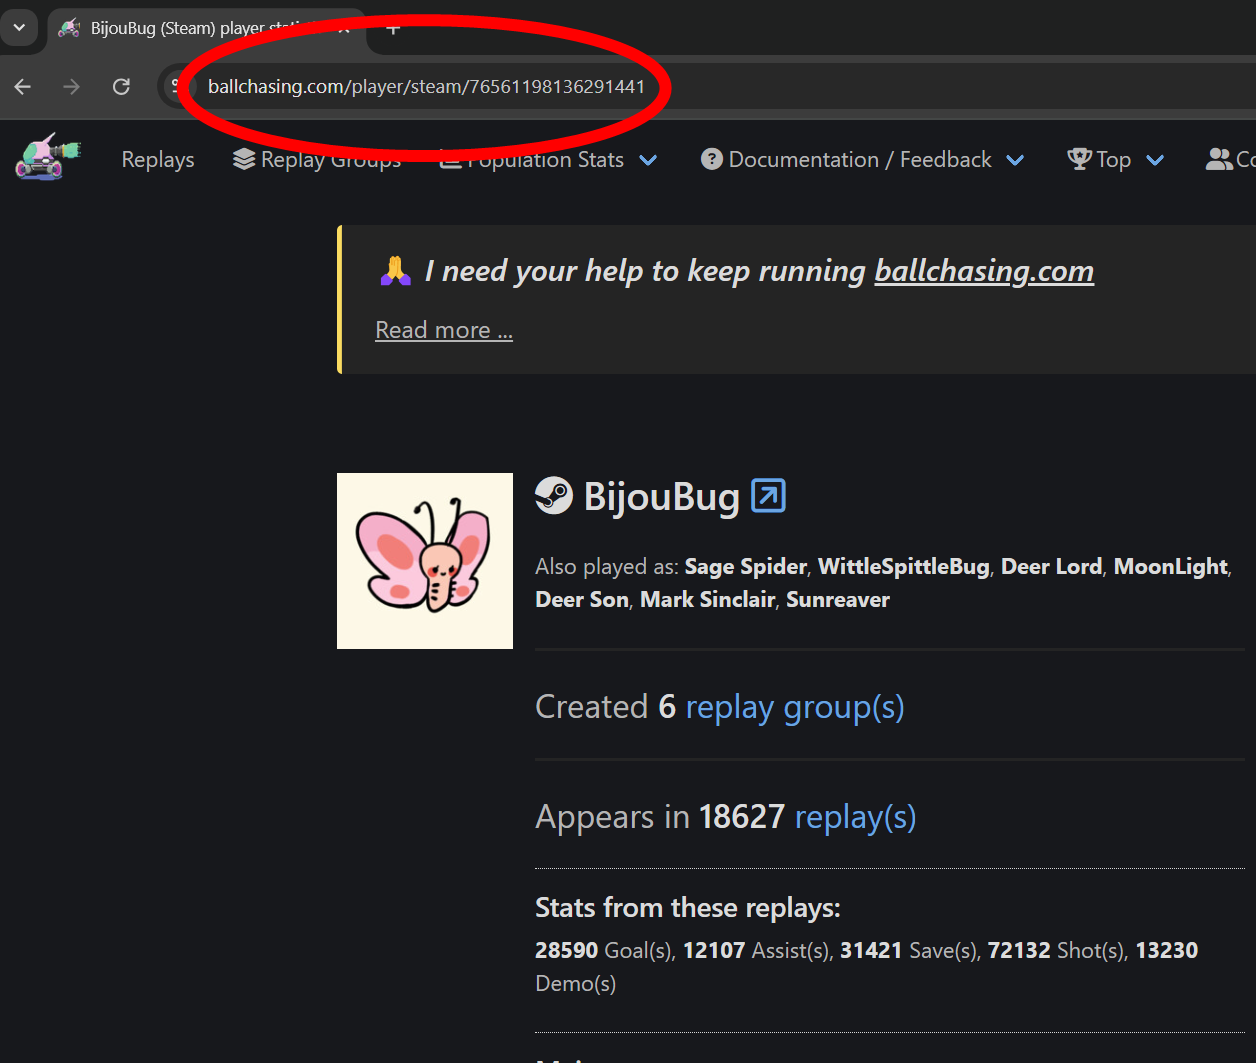
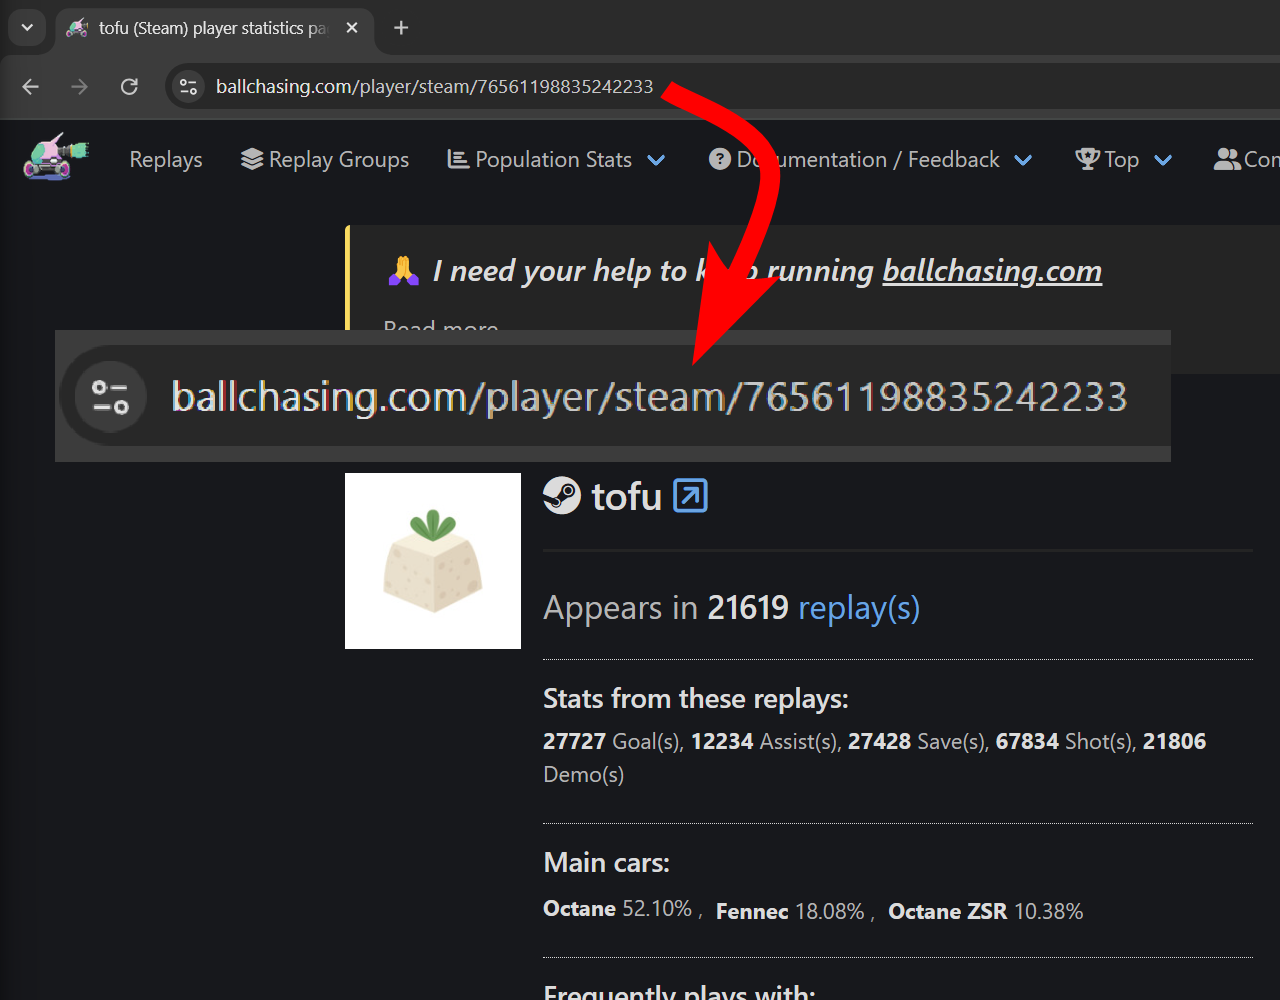
Finish aligning content for mobile screen size and add helpful image

Changed region(s): [[0.0, 0.0, 1.0, 0.806], [0.4037, 0.837, 0.9626, 0.93], [0.4037, 0.992, 0.6521, 1.0]]

diff --git a/stat-chasing/src/components/App.jsx b/stat-chasing/src/components/App.jsx
@@ -228,6 +228,7 @@ function App() {
     <div className={styles.pageContent}>
       <header className={styles.mainHeader}>
         <h1>Statchasing</h1>
+        {/* remove admin login button for production */}
         <AdminLoginBtn />
       </header>
       <section className={styles.welcomeSection}>
@@ -248,7 +249,8 @@ function App() {
         <hr />
       </section>
       <section className={styles.playerSearchSection}>
-        <button
+        {/* remove copy URL button for production */}
+        {/* <button
           onClick={() =>
             navigator.clipboard.writeText(
               "https://ballchasing.com/player/steam/76561198136291441"
@@ -256,19 +258,26 @@ function App() {
           }
         >
           Copy BijouBug's URL
-        </button>
+        </button> */}
         <form className={styles.playerSearchForm} onSubmit={handleSubmit}>
-          <label>
-            Start by copy and pasting a player's ballchasing profile URL.
-            (https://ballchasing.com/player/steam/76561198136291441)
-            <input
-              className={styles.playerProfileInput}
-              type="text"
-              value={unprocessedPlayerId}
-              onChange={(e) => setUnprocessedPlayerId(e.target.value)}
-              placeholder="Enter ballchasing player URL"
-            />
+          <label htmlFor="playerURL">
+            Start by pasting a player's entire ballchasing profile URL, the one
+            shown in the image below:
+            {/* replace link with example image */}
+            {/* (https://ballchasing.com/player/steam/76561198136291441) */}
           </label>
+          <img
+            src="../../assets/player-profile-url.png"
+            alt="Paste the URL copied from the address bar on a player's profile on ballchasing.com. The URL should follow this pattern: https://ballchasing.com/player/platform/id, where 'platform' can be 'steam', 'epic', 'psn', 'xbox', or 'switch', and 'id' will be a numeric or alphanumeric string, or otherwise may be the player's in-game name, depending on the platform."
+          />
+          <input
+            className={styles.playerProfileInput}
+            type="text"
+            id="playerURL"
+            value={unprocessedPlayerId}
+            onChange={(e) => setUnprocessedPlayerId(e.target.value)}
+            placeholder="Enter player's ballchasing URL"
+          />
           {isAdmin && (
             <div>
               <label>Select date to fetch older replays (admins only): </label>
@@ -292,16 +301,21 @@ function App() {
       </section>
 
       <section>
-        {/* would like to display a message when a player wasn't found/when player has no replays available */}
+        {/* would like to display a message when a player wasn't found vs when player just has no replays available */}
         {playerName && (
           <div className={styles.playerStatsContainer}>
-            <div className={styles.playlistBtnsContainer}>
-              <button onClick={() => setPlaylist(null)}>All</button>
-              <button onClick={() => setPlaylist("ranked-duels")}>1v1</button>
-              <button onClick={() => setPlaylist("ranked-doubles")}>2v2</button>
-              <button onClick={() => setPlaylist("ranked-standard")}>
-                3v3
-              </button>
+            <div className={styles.playlistFilterSection}>
+              <h4>Filter by playlist:</h4>
+              <div className={styles.playlistBtnsContainer}>
+                <button onClick={() => setPlaylist(null)}>All</button>
+                <button onClick={() => setPlaylist("ranked-duels")}>1v1</button>
+                <button onClick={() => setPlaylist("ranked-doubles")}>
+                  2v2
+                </button>
+                <button onClick={() => setPlaylist("ranked-standard")}>
+                  3v3
+                </button>
+              </div>
             </div>
             <Stats />
           </div>

diff --git a/stat-chasing/src/styles/App.module.css b/stat-chasing/src/styles/App.module.css
@@ -1,9 +1,10 @@
 .pageContent {
   display: flex;
-  flex-flow: row wrap;
+  flex-flow: column;
   justify-content: center;
   align-items: center;
   row-gap: 1.5rem;
+  width: 100%;
 }
 
 .mainHeader {
@@ -11,7 +12,7 @@
   align-items: center;
   justify-content: space-between;
   width: 100%;
-  margin: 1rem 1rem 0 0;
+  margin: 1rem 0;
 }
 
 .welcomeSection p {
@@ -20,9 +21,14 @@
 
 .playerSearchForm {
   display: flex;
-  flex-flow: column nowrap;
+  flex-flow: column;
   align-items: flex-start;
-  gap: 1rem;
+  row-gap: 1rem;
+}
+
+.playerSearchForm img {
+  margin: 1rem 0;
+  border: solid 2px #2d9e87;
 }
 
 .playerSearchForm button {
@@ -30,7 +36,7 @@
 }
 
 .playerProfileInput {
-  width: 460px;
+  width: 400px;
 }
 
 .formBtnsContainer {
@@ -38,7 +44,17 @@
   width: 100%;
   justify-content: center;
   column-gap: 1rem;
-  /* align-items: ; */
+}
+
+.playlistFilterSection {
+  margin-top: 2rem;
+  display: flex;
+  flex-flow: column;
+  row-gap: 0.6rem;
+}
+
+.playlistFilterSection h4 {
+  font-style: italic;
 }
 
 .playlistBtnsContainer {
@@ -49,5 +65,5 @@
 }
 
 .playlistBtnsContainer button {
-  padding: 0.5rem 1.2rem;
+  padding: 0.5rem 1rem;
 }

diff --git a/stat-chasing/src/styles/global.css b/stat-chasing/src/styles/global.css
@@ -51,7 +51,6 @@ table {
 }
 
 body {
-  display: flex;
   background-color: #17181c;
   color: #dbdbdb;
   font-family: BlinkMacSystemFont, -apple-system, "Segoe UI", Roboto, Oxygen,
@@ -59,11 +58,12 @@ body {
     Arial, sans-serif;
   font-size: 0.9rem;
   line-height: 1.5;
+  width: 100%;
 }
 
 #root {
   display: flex;
-  margin: 0 1rem 0 1rem;
+  margin: 0 1.5rem;
 }
 
 button {
@@ -91,6 +91,7 @@ input:focus {
 }
 
 canvas {
+  margin: 1rem 0;
   background-color: #333333;
   padding: 1rem;
 }
@@ -153,4 +154,29 @@ caption {
   margin-bottom: 0.3rem;
   font-weight: 600;
   font-size: 1.1rem;
+}
+
+ul {
+  display: flex;
+  flex-flow: column;
+  gap: 0.3rem;
+}
+
+li {
+  list-style-type: square;
+  list-style-position: inside;
+}
+
+img {
+  max-width: 400px;
+  /* text-align: center; */
+}
+
+footer {
+  width: 100%;
+  height: 100%;
+  text-align: center;
+  background-color: #333333;
+  padding: 1rem;
+  margin: 2rem 0 0 0;
 }

diff --git a/stat-chasing/src/components/CarStats.jsx b/stat-chasing/src/components/CarStats.jsx
@@ -88,15 +88,18 @@ function CarStats({ className }) {
   return (
     <div className={className}>
       <h3>Car Stats</h3>
-      <div className={styles.carBtnsContainer}>
-        <button onClick={() => setUsedCar(null)}>All</button>
-        {usedCarArr.map((car) => {
-          return (
-            <button onClick={() => setUsedCar(car)} key={car}>
-              {car}
-            </button>
-          );
-        })}
+      <div className={styles.carsFilterSection}>
+        <h4>Filter averages by used car:</h4>
+        <div className={styles.carBtnsContainer}>
+          <button onClick={() => setUsedCar(null)}>All</button>
+          {usedCarArr.map((car) => {
+            return (
+              <button onClick={() => setUsedCar(car)} key={car}>
+                {car}
+              </button>
+            );
+          })}
+        </div>
       </div>
       <table>
         <caption>

diff --git a/stat-chasing/src/components/MovementStats.jsx b/stat-chasing/src/components/MovementStats.jsx
@@ -170,17 +170,17 @@ function MovementStats({ className }) {
   return (
     <div className={className}>
       <h3>Movement/Speed Stats</h3>
-      <DoughnutChart
-        data={data}
-        options={options}
-        plugins={[centerTextPlugin, drawLabelsPlugin]}
-      />
       <ul>
         <li>Average boost used per minute: {avgBPM()}</li>
         <li>Average boost collected per minute: {avgBCPM()}</li>
         <li>Average distance driven per game: {avgDistance()}</li>
         <li> Total distance driven across all games: {sumTotalDistance()}</li>
       </ul>
+      <DoughnutChart
+        data={data}
+        options={options}
+        plugins={[centerTextPlugin, drawLabelsPlugin]}
+      />
     </div>
   );
 }

diff --git a/stat-chasing/src/components/WinLossStats.jsx b/stat-chasing/src/components/WinLossStats.jsx
@@ -190,13 +190,12 @@ function WinLossStats({ className }) {
   return (
     <div className={className}>
       <h3>Win/Loss Stats</h3>
+      <ul>
+        <li>Average MVPs out of all games: {avgMVPInAllGames()}</li>
+        <li>Average MVPs out of only wins: {avgMVPInWins()}</li>
+      </ul>
       <PieChart data={data} options={options} plugins={[drawLabelsPlugin]} />
-      <div className="statText">
-        <ul>
-          <li>Average MVPs out of all games: {avgMVPInAllGames()}</li>
-          <li>Average MVPs out of only wins: {avgMVPInWins()}</li>
-        </ul>
-      </div>
+
       <div className="chart-container bar-chart">
         <Bar
           data={{

diff --git a/stat-chasing/src/components/Stats.jsx b/stat-chasing/src/components/Stats.jsx
@@ -34,13 +34,13 @@ function Stats() {
         </h3>
       </div>
       <div>
-        <MapStats className={styles.component} />
         <CarStats className={styles.component} />
         <WinLossStats className={styles.component} />
-        <DateStats className={styles.component} />
+        <MovementStats className={styles.component} />
         <OvertimeStats className={styles.component} />
         <DemoStats className={styles.component} />
-        <MovementStats className={styles.component} />
+        <MapStats className={styles.component} />
+        <DateStats className={styles.component} />
       </div>
     </div>
   );

diff --git a/stat-chasing/src/components/OvertimeStats.jsx b/stat-chasing/src/components/OvertimeStats.jsx
@@ -162,13 +162,13 @@ function OvertimeStats({ className }) {
   return (
     <div className={className}>
       <h3>Overtime Stats</h3>
-      <PieChart data={data} options={options} plugins={[drawLabelsPlugin]} />
       <ul>
         <li>% games go to overtime: {overtimeGamesPercent()}%</li>
         <li>Longest overtime: {longestOvertime()}</li>
         <li>Longest overtime win: {longestOvertimeWin()}</li>
         <li>Longest overtime loss: {longestOvertimeLoss()}</li>
       </ul>
+      <PieChart data={data} options={options} plugins={[drawLabelsPlugin]} />
     </div>
   );
 }

diff --git a/stat-chasing/src/components/DemoStats.jsx b/stat-chasing/src/components/DemoStats.jsx
@@ -90,10 +90,12 @@ function DemoStats({ className }) {
   return (
     <div className={className}>
       <h3>Demolition Stats</h3>
+      <ul>
+        <li>Most demos in a single game: {highestDemoCount()}</li>
+      </ul>
       {avgDemosInflicted() > 0 && avgDemosTaken() > 0 ? (
         <PieChart data={data} options={options} plugins={[drawLabelsPlugin]} />
       ) : null}
-      <p>Most demos in a single game: {highestDemoCount()}</p>
     </div>
   );
 }

diff --git a/stat-chasing/src/styles/Stats.module.css b/stat-chasing/src/styles/Stats.module.css
@@ -4,7 +4,6 @@
 
 .statsContainerHeader h3 {
   margin-bottom: 2rem;
-  /* margin-left: 1rem; */
   font-style: italic;
 }
 
@@ -12,9 +11,9 @@
   display: flex;
   flex-flow: column wrap;
   align-items: center;
-  /* width: 100%; */
 }
 
 .component h3 {
-  margin: 1.5rem 0;
+  margin: 2.5rem 0 1.5rem 0;
+  font-weight: 600;
 }

diff --git a/stat-chasing/src/components/AdminLoginBtn.jsx b/stat-chasing/src/components/AdminLoginBtn.jsx
@@ -1,9 +1,7 @@
 const AdminLoginBtn = () => {
   return (
     <button
-      onClick={() =>
-        (window.location.href = "http://localhost:3000/users/sign_in")
-      }
+      onClick={() => (window.location.href = "http://localhost:3000/chip_time")}
     >
       Admin Login
     </button>

diff --git a/stat-chasing/src/styles/CarStats.module.css b/stat-chasing/src/styles/CarStats.module.css
@@ -6,6 +6,16 @@
   margin-bottom: 0.7rem;
 }
 
+.carsFilterSection {
+  display: flex;
+  flex-flow: column;
+  row-gap: 0.6rem;
+}
+
+.carsFilterSection h4 {
+  font-style: italic;
+}
+
 .carBtnsContainer button {
   padding: 0.3rem 0.6rem;
 }
